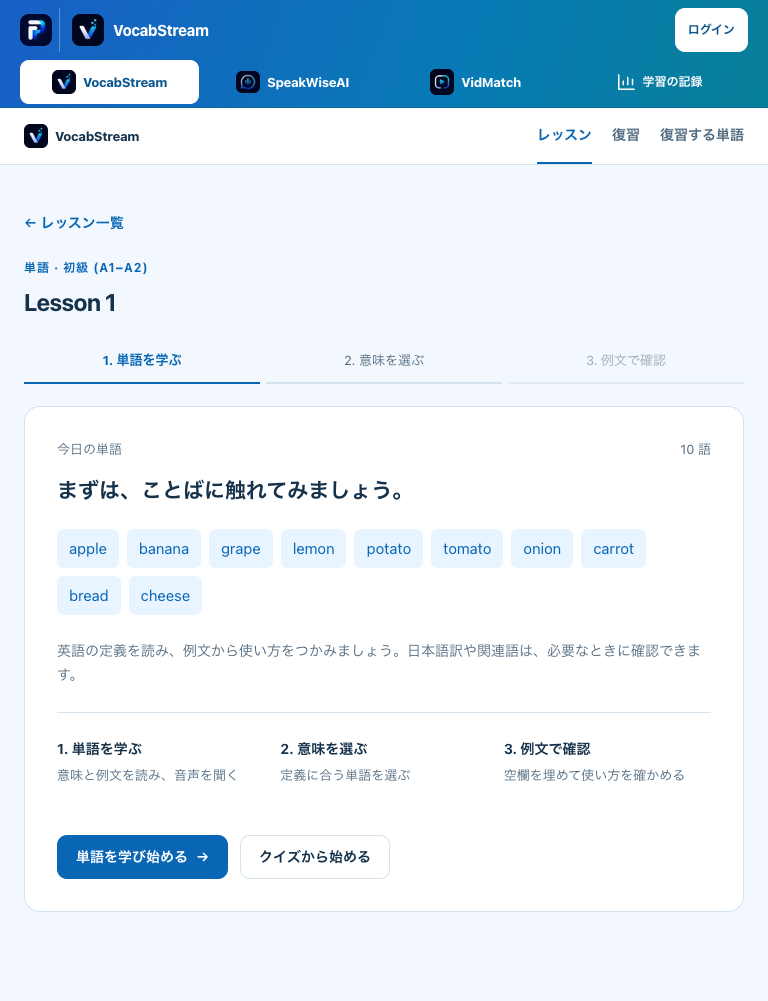
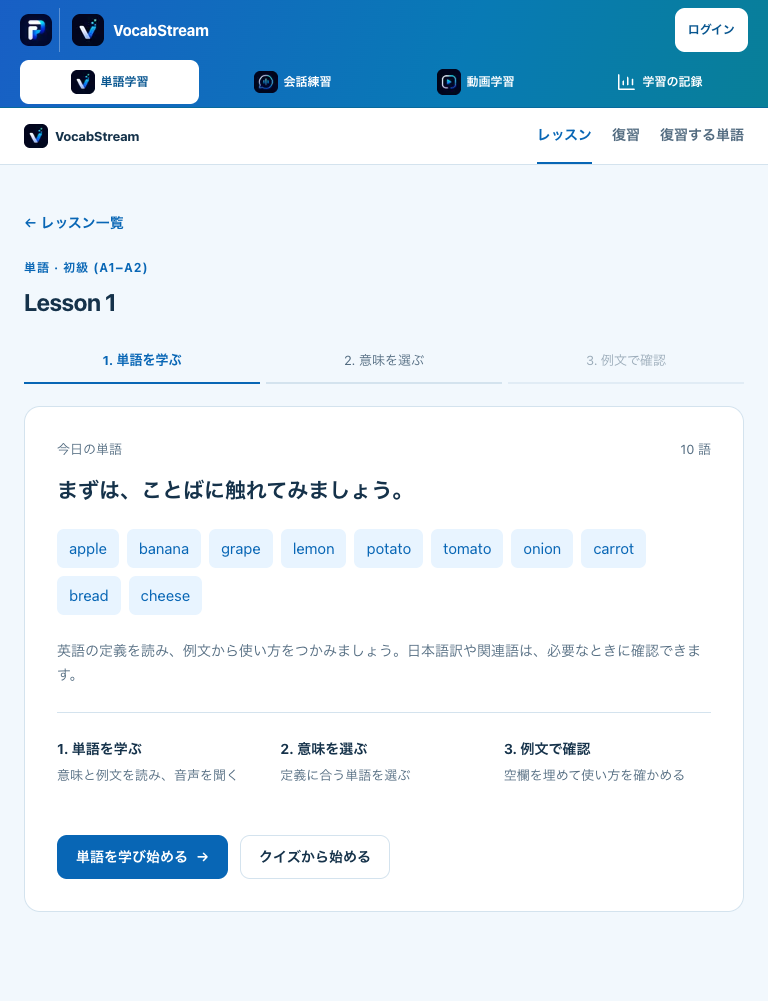
style: clarify navigation with Japanese learning labels

Changed region(s): [[0.2812, 0.0619, 0.4688, 0.0929], [0.0625, 0.0619, 0.2188, 0.0929], [0.5625, 0.0619, 0.6875, 0.0929]]

diff --git a/app/globals.css b/app/globals.css
@@ -60,7 +60,8 @@ img, svg { flex-shrink: 0; }
 .pf-current-app { display: none; color: #fff; text-decoration: none; }
 .pf-nav { display: flex; justify-content: center; align-items: center; gap: 6px; }
 .pf-nav a { display: flex; align-items: center; justify-content: center; gap: 7px; min-height: 44px; padding: 9px 12px; border-radius: 9px; color: #fff; font-size: 13px; font-weight: 650; white-space: nowrap; text-decoration: none; }
-.pf-nav .pf-app-brand, .pf-current-app .pf-app-brand { color: inherit; }
+.pf-current-app .pf-app-brand { color: inherit; }
+.pf-nav-logo { border-radius: 6px; }
 .pf-nav a:hover { background: var(--pf-primary-soft); color: var(--pf-primary-hover); }
 .pf-nav a[aria-current="page"] { background: #fff; color: var(--pf-primary-hover); }
 .pf-nav svg { width: 22px; height: 22px; }
@@ -92,9 +93,9 @@ img, svg { flex-shrink: 0; }
   .pf-page { width: calc(100% - 32px); padding-top: 24px; }
 }
 @media (max-width: 599px) {
-  .pf-nav .pf-app-brand-name, .pf-nav-full { display: none; }
+  .pf-nav-full { display: none; }
   .pf-nav-short { display: inline; }
-  .pf-nav .pf-app-brand img, .pf-nav svg { width: 22px; height: 22px; }
+  .pf-nav-logo, .pf-nav svg { width: 22px; height: 22px; }
 }
 @media (max-width: 370px) {
   .pf-header-inner { padding-inline: 12px; }

diff --git a/app/components/AppHeader.tsx b/app/components/AppHeader.tsx
@@ -24,8 +24,8 @@ export default function AppHeader() {
       <nav className="pf-nav" aria-label="メインナビゲーション">
         {appKeys.map((app) => {
           const item = learningApps[app];
-          return <Link key={app} href={item.href} aria-label={`${item.name} · ${item.purpose}`} aria-current={currentApp === app ? "page" : undefined}>
-            <AppBrand app={app} compact /><span className="pf-nav-short">{item.short}</span>
+          return <Link key={app} href={item.href} aria-label={`${item.purpose} · ${item.name}`} aria-current={currentApp === app ? "page" : undefined}>
+            <Image className="pf-nav-logo" src={item.image} alt="" width={24} height={24} /><span className="pf-nav-full">{item.purpose}</span><span className="pf-nav-short">{item.short}</span>
           </Link>;
         })}
         <Link href="/analytics" aria-label="学習の記録" aria-current={pathname.startsWith("/analytics") ? "page" : undefined}>

diff --git a/app/lib/brands.ts b/app/lib/brands.ts
@@ -1,7 +1,7 @@
 export const learningApps = {
-  vocabstream: { name: "VocabStream", href: "/vocabstream", image: "/images/vocabstream.png", purpose: "単語を学ぶ", short: "単語" },
-  speakwise: { name: "SpeakWiseAI", href: "/speakwise", image: "/images/speakwise.png", purpose: "会話を練習", short: "会話" },
-  vidmatch: { name: "VidMatch", href: "/vidmatch", image: "/images/videofinder.png", purpose: "動画で学ぶ", short: "動画" },
+  vocabstream: { name: "VocabStream", href: "/vocabstream", image: "/images/vocabstream.png", purpose: "単語学習", short: "単語" },
+  speakwise: { name: "SpeakWiseAI", href: "/speakwise", image: "/images/speakwise.png", purpose: "会話練習", short: "会話" },
+  vidmatch: { name: "VidMatch", href: "/vidmatch", image: "/images/videofinder.png", purpose: "動画学習", short: "動画" },
 } as const;
 
 export type LearningApp = keyof typeof learningApps;

diff --git a/docs/frontend-refinement.md b/docs/frontend-refinement.md
@@ -74,4 +74,4 @@ Final validation results and reproduction steps are recorded in [frontend-valida
 
 The original blue identity is now explicit in shared tokens: light-blue backgrounds, white surfaces, blue actions, borders, focus rings, selected states, chat bubbles, and progress indicators. The sticky banner uses a readable blue-to-cyan gradient. Semantic success/error colors remain distinct.
 
-`app/lib/brands.ts` owns the exact VocabStream, SpeakWiseAI, and VidMatch names, original logo paths, destinations, and purpose labels. `AppBrand` is reused by the header, home cards, learning pages, and progress panels. At 1100px and above, all product names and logos appear in one header row. Smaller widths use two rows, keeping the active app name visible at the top; below 600px the navigation combines each logo with a short Japanese purpose label. Navigation links retain full accessible names at every width.
+`app/lib/brands.ts` owns the exact VocabStream, SpeakWiseAI, and VidMatch names, original logo paths, destinations, and purpose labels. `AppBrand` is reused by the header, home cards, learning pages, and progress panels. At 600px and above, navigation uses the functional labels 単語学習, 会話練習, and 動画学習 alongside the original logos. At 1100px and above, the banner fits in one row. Smaller widths use two rows, keeping the active app name visible at the top; below 600px the navigation combines each logo with a short Japanese purpose label. Navigation links retain both the purpose and product name in their accessible names at every width.

diff --git a/docs/frontend-validation.md b/docs/frontend-validation.md
@@ -22,6 +22,7 @@ Representative rendered previews: [desktop home](previews/home-desktop.png), [32
 - Rechecked 14 routes at 320–1920px: no horizontal overflow or Axe findings. Visually inspected home, vocabulary, lesson, speaking, video, and progress at narrow phone, tablet, and desktop sizes, including populated progress data.
 - Progress, video, and isolated speaking fixture suites pass with the new branding. The active speaking composer remains visible at widths 320–1920px, including a 320×568px viewport. Header labels and logo sizing adapt at 600px and 1100px; full accessible destination names are retained.
 - Banner endpoint contrast with white text is at least 4.67:1. Navigation hover uses a light-blue surface with dark-blue text; account-menu focus retains a blue ring on its white surface.
+- Navigation label follow-up: medium/large navigation now shows 単語学習, 会話練習, and 動画学習. Production build/type/lint checks pass; verified the labels and overflow at 10 widths from 320 to 1920px, including 599/600px and 1099/1100px boundaries. Header Axe checks pass.
 - The preview images below reflect this blue theme. Existing service/device limitations still apply.
 
 ## Running checks
